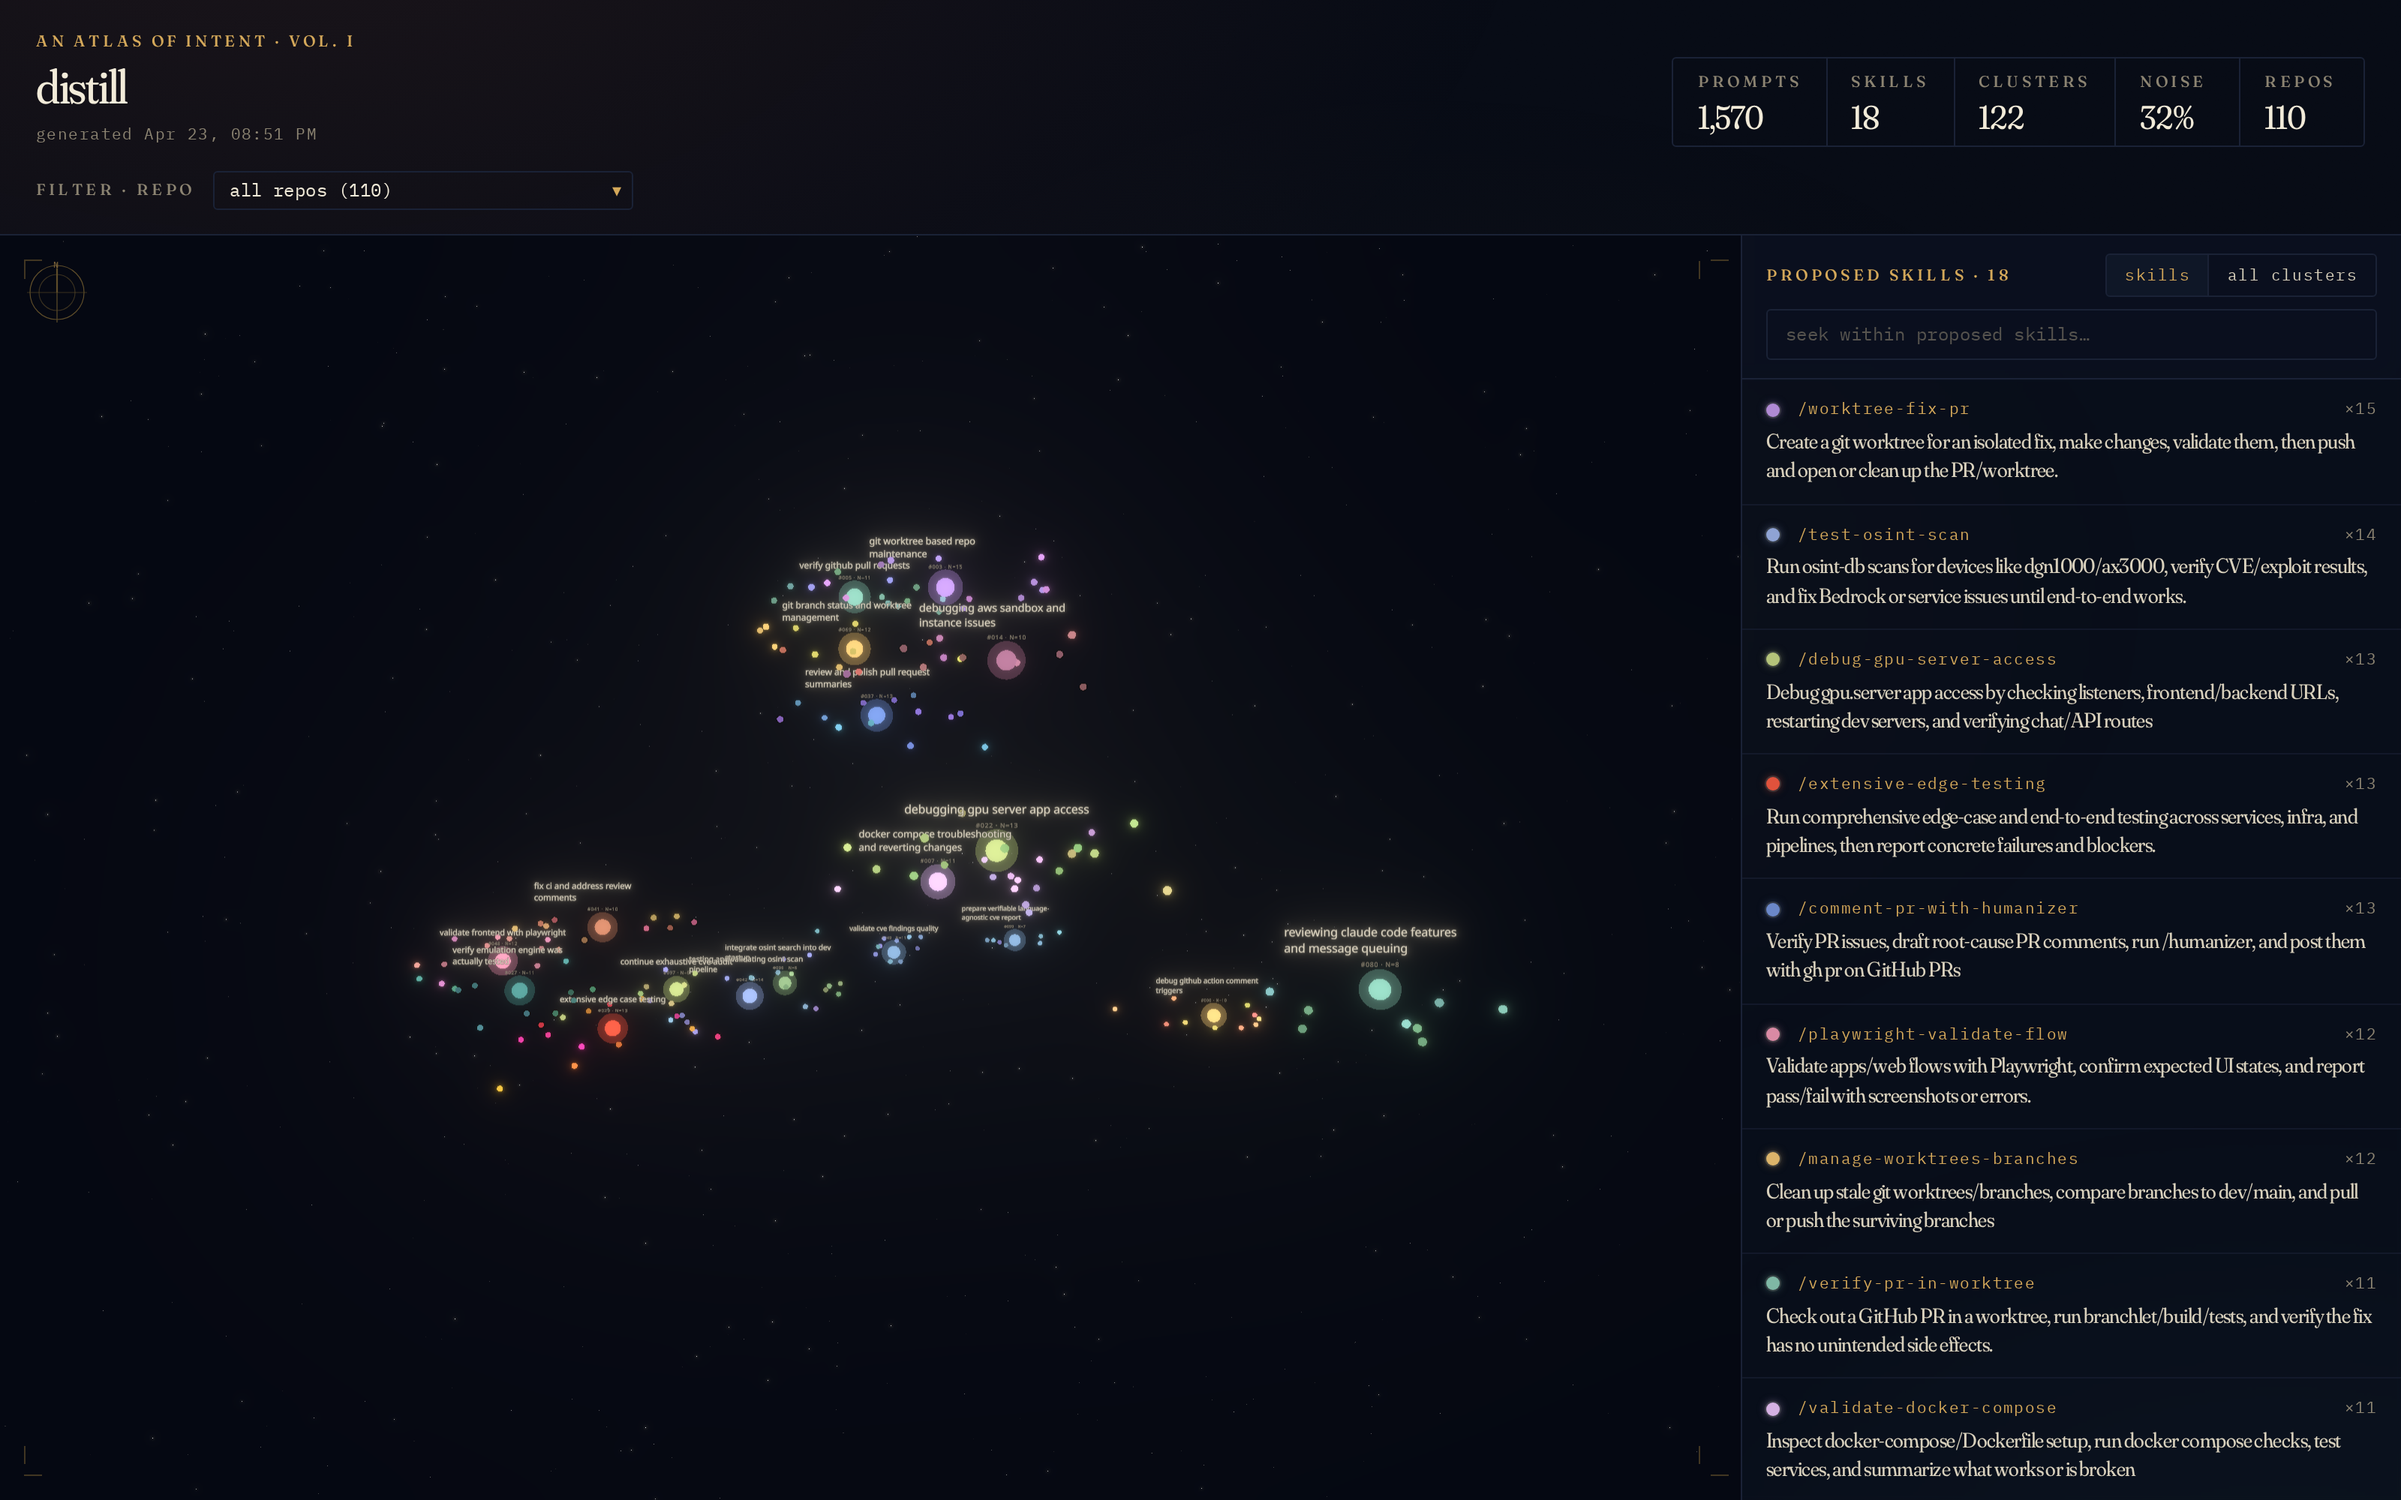
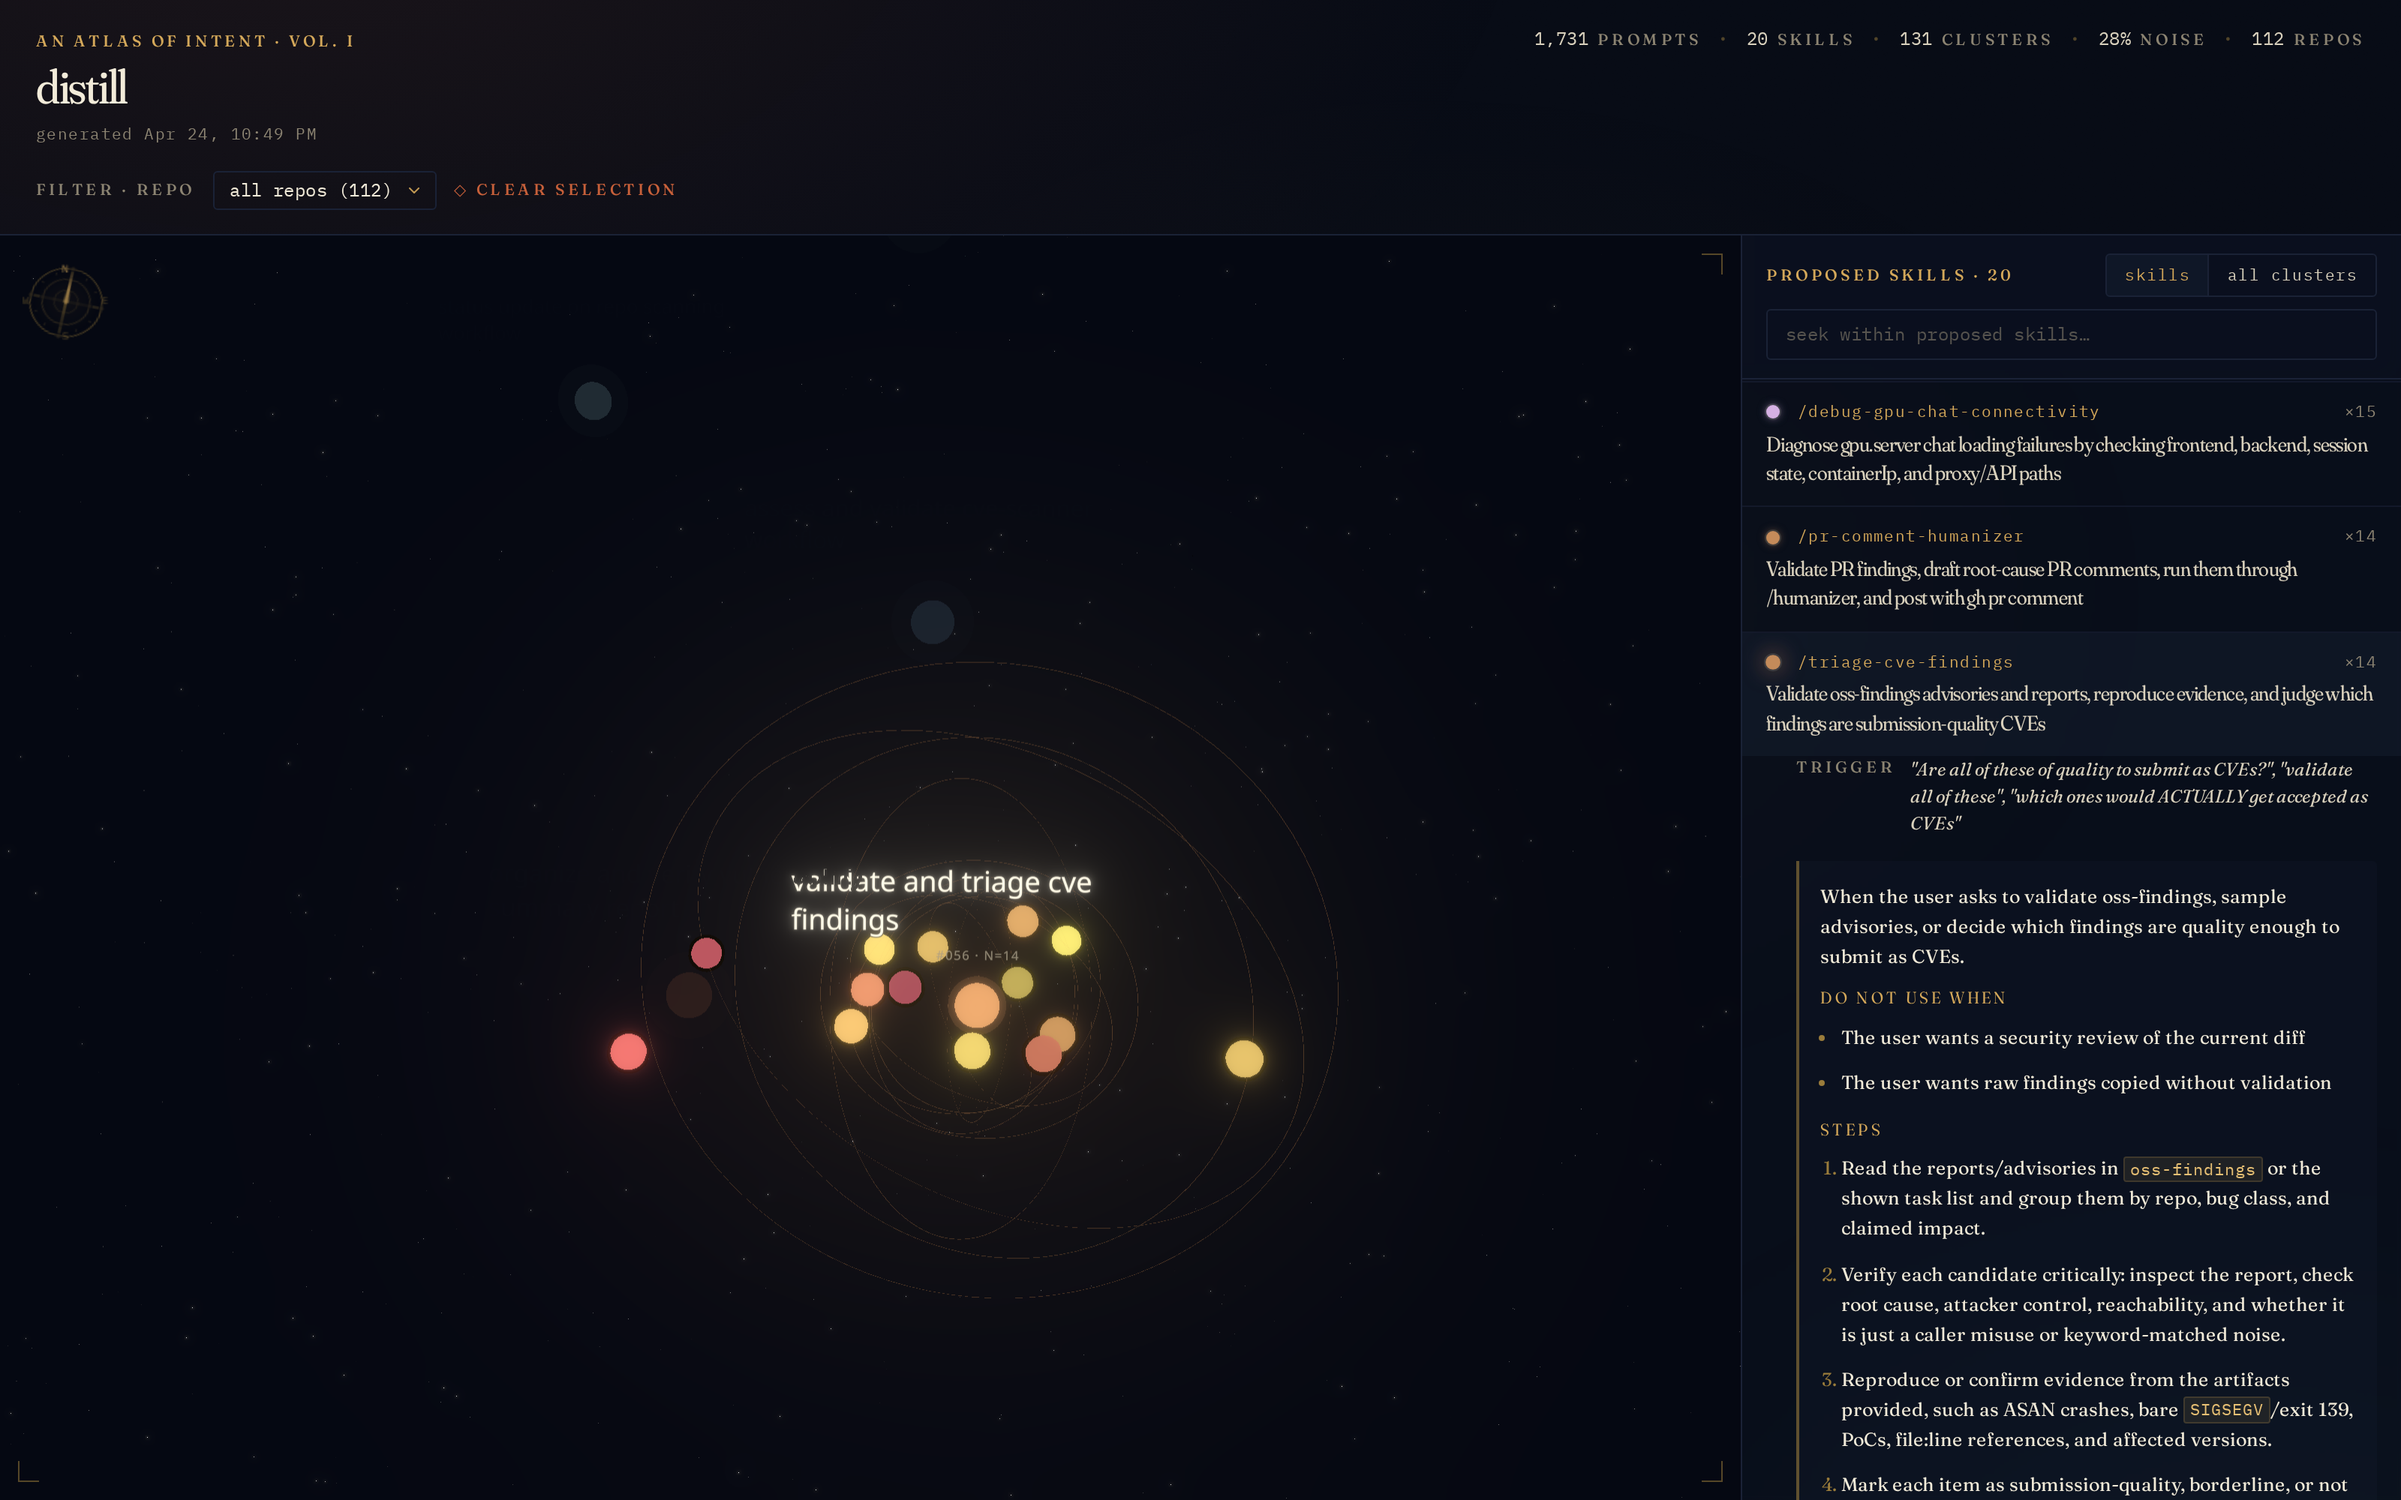
Add focused skill screenshot to README
- Insert focused skill screenshot image into README to illustrate UI detail
- Add new asset assets/screenshot-skill.png
- Update existing screenshot asset (assets/screenshot.png) binary changed

diff --git a/README.md b/README.md
@@ -19,6 +19,8 @@ The UI is an observatory: every accepted skill is a sun, every prompt is a
 planet around its cluster. Click a planet to open the original conversation
 at that turn.
 
+![focused skill](assets/screenshot-skill.png)
+
 ## Run it
 
 ```bash
